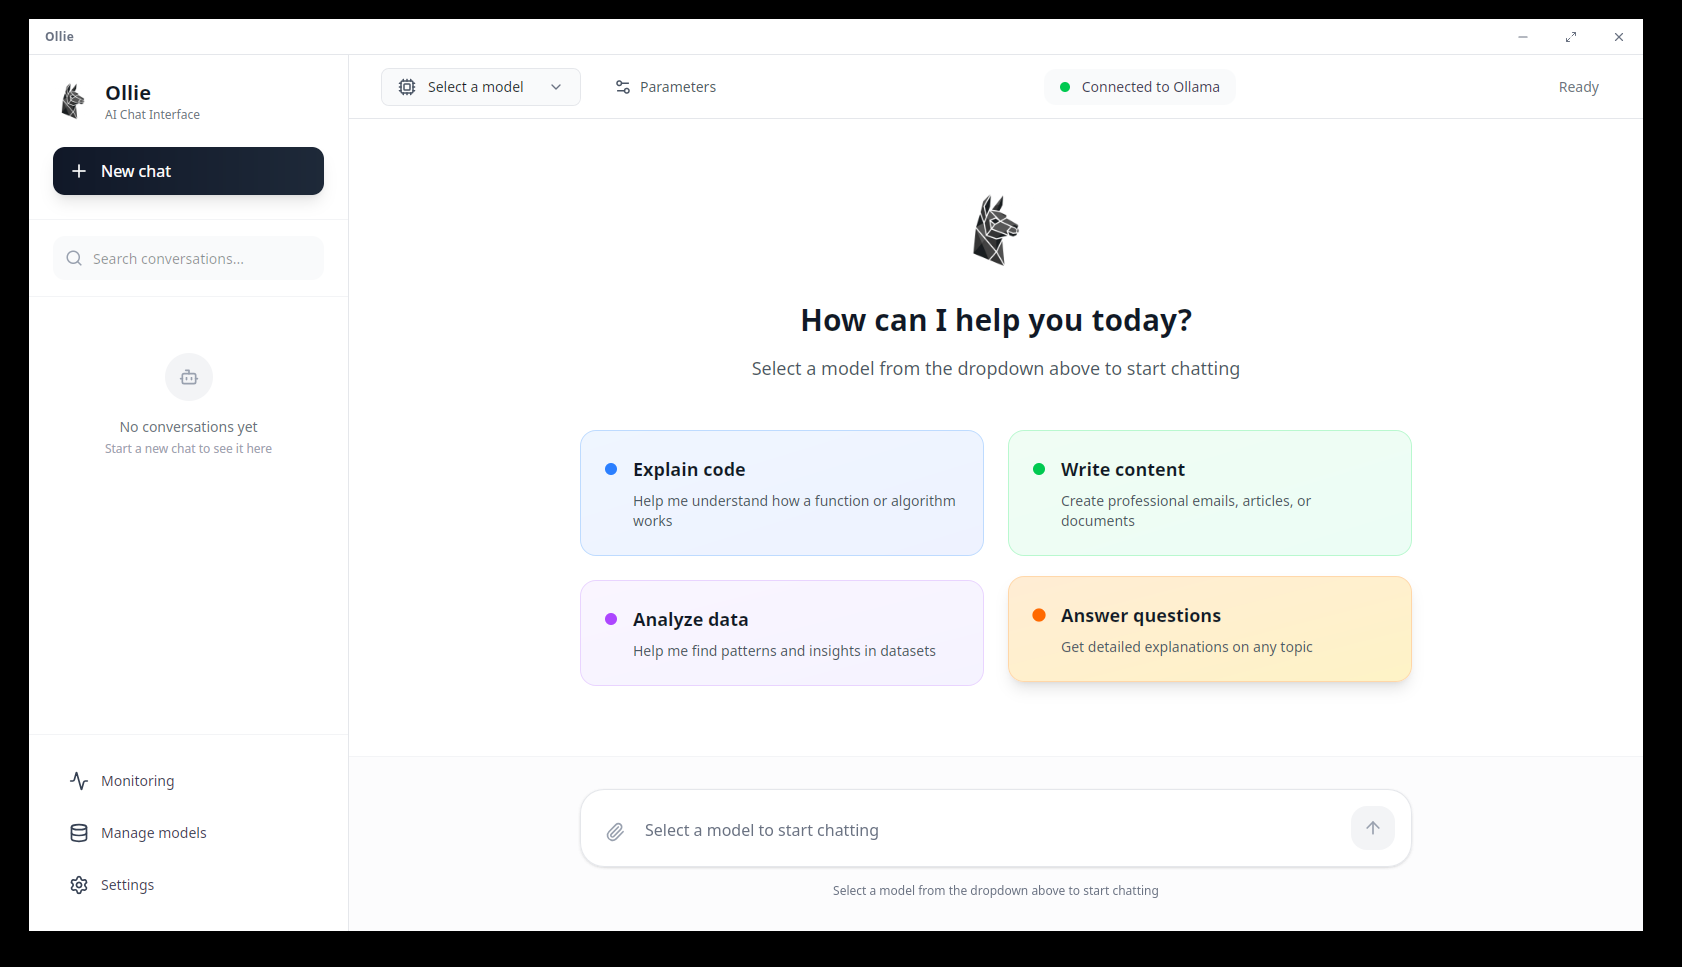
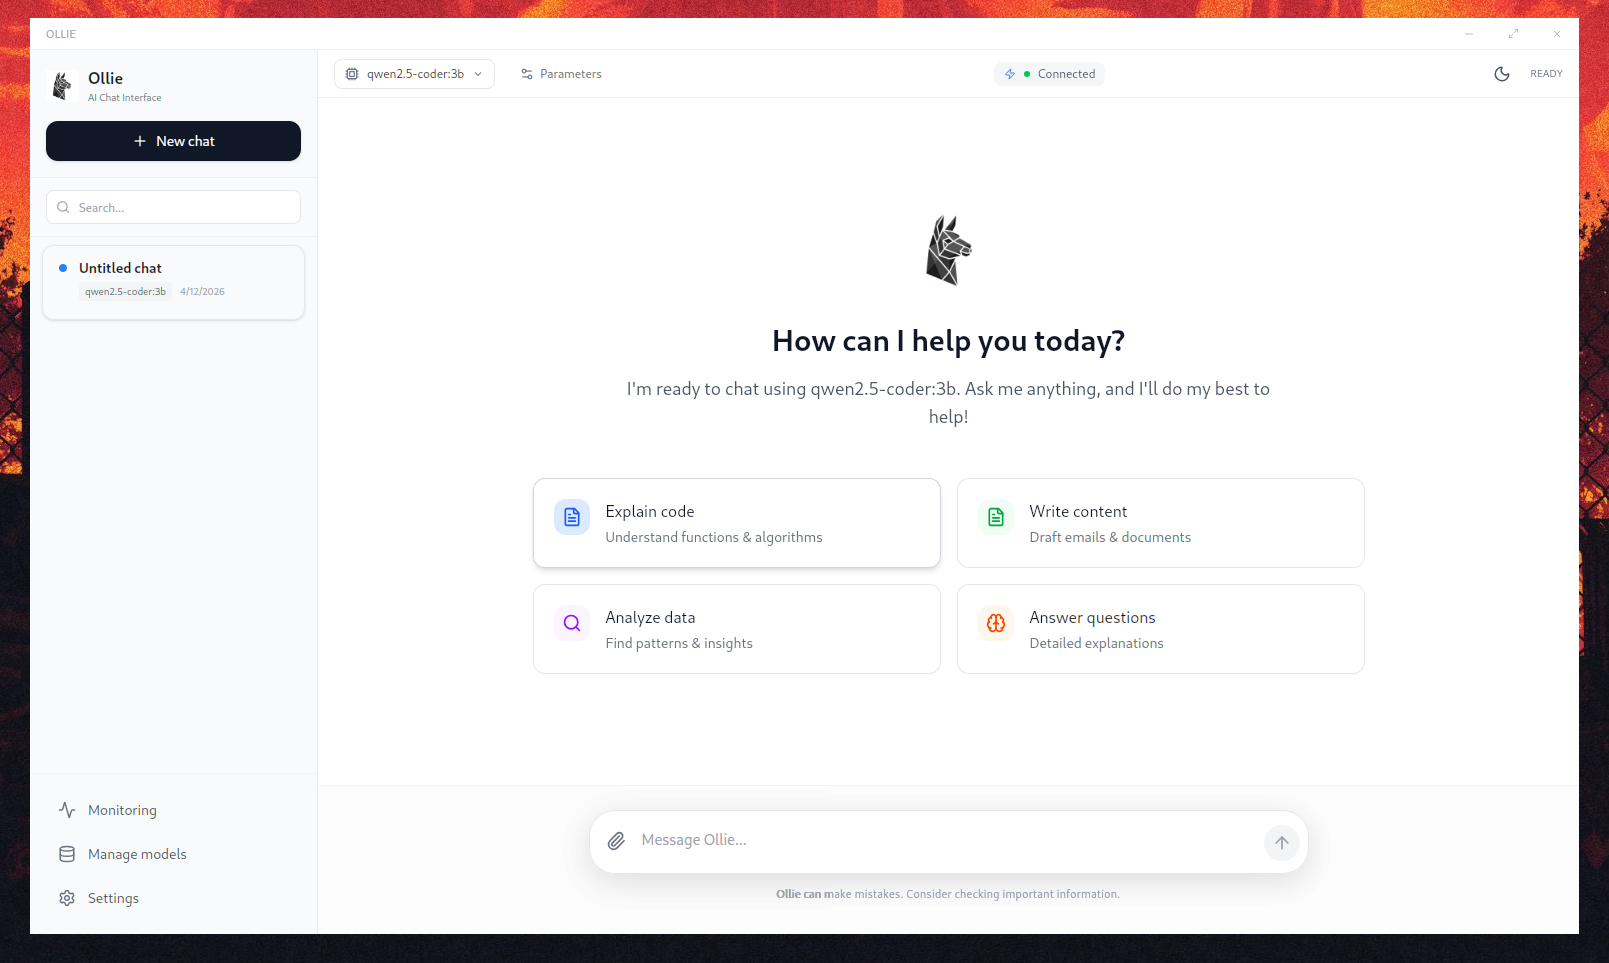
docs: update README and screenshots for v0.2.4
- Bump install command to v0.2.4 and fix repo URL
- Add dark theme to highlights and recently completed
- Credit @user for dark theme contribution
- Add contributors section
- Update overview, models, monitoring screenshots
- Remove generation-parameter.png screenshot

diff --git a/README.md b/README.md
@@ -26,14 +26,14 @@ If you want a personal, single-user assistant that feels premium, fast, and alwa
 No configuration needed. Just download and run.
 
 ```bash
-# Download the AppImage (v0.2.2)
-wget https://github.com/MedGm/OllamaGUI/releases/download/v0.2.2/Ollie_0.2.2_amd64.AppImage
+# Download the AppImage (v0.2.4)
+wget https://github.com/MedGm/Ollie/releases/download/v0.2.4/Ollie_0.2.4_amd64.AppImage
 
 # Make it executable
-chmod +x Ollie_0.2.2_amd64.AppImage
+chmod +x Ollie_0.2.4_amd64.AppImage
 
 # Run it
-./Ollie_0.2.2_amd64.AppImage
+./Ollie_0.2.4_amd64.AppImage
 ```
 
 *Requirements: [Ollama](https://ollama.com) installed and running.*
@@ -54,6 +54,9 @@ Drag and drop images to analyze them with vision models like LLaVA. Upload PDFs 
 
 **Monitoring Dashboard**
 Real-time tracking of system resources (CPU, Memory), running models with VRAM usage, and the ability to stop/unload models directly from the dashboard.
+
+**Dark Theme**
+Full dark mode with a light/dark/system toggle. System mode follows your OS preference automatically.
 
 ## Gallery
 
@@ -80,6 +83,7 @@ Real-time tracking of system resources (CPU, Memory), running models with VRAM u
 
 ### ✅ Recently Completed
 
+- **Dark Theme**: Full dark mode with light/dark/system toggle, consistent across all screens. Contributed by [@leoniv](https://github.com/leoniv).
 - **Monitoring Dashboard Enhancements**: View running models, VRAM usage, and stop/unload models directly from the Monitoring tab.
 - **Model Download Progress**: Visual progress bars for model downloads with size/percentage display.
 - **Fullscreen Code Preview**: Expand HTML/SVG previews to fullscreen modal for better viewing.
@@ -124,6 +128,11 @@ Real-time tracking of system resources (CPU, Memory), running models with VRAM u
 - **Windows & MacOS Support**: Windows & MacOS versions.
 - **Plugin System**: Extend functionality with community plugins.
 - **Internationalization**: Multi-language UI support.
+
+## Contributors
+
+- [@MedGm](https://github.com/MedGm) — creator & maintainer
+- [@leoniv](https://github.com/leoniv) — dark theme & UI polish
 
 ## License
 